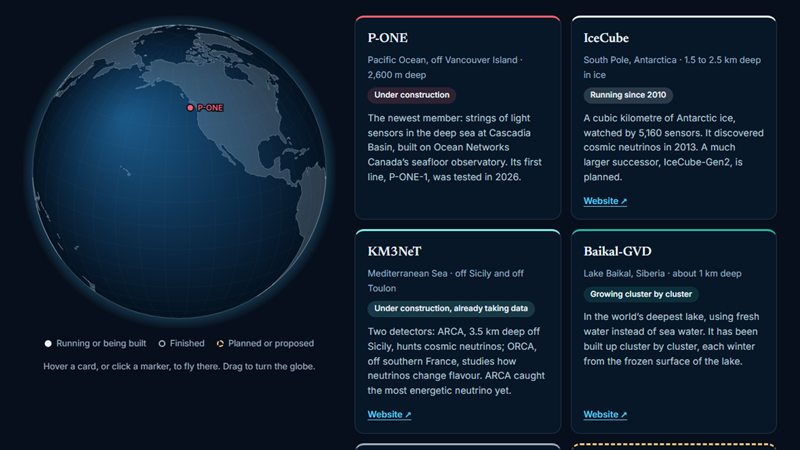
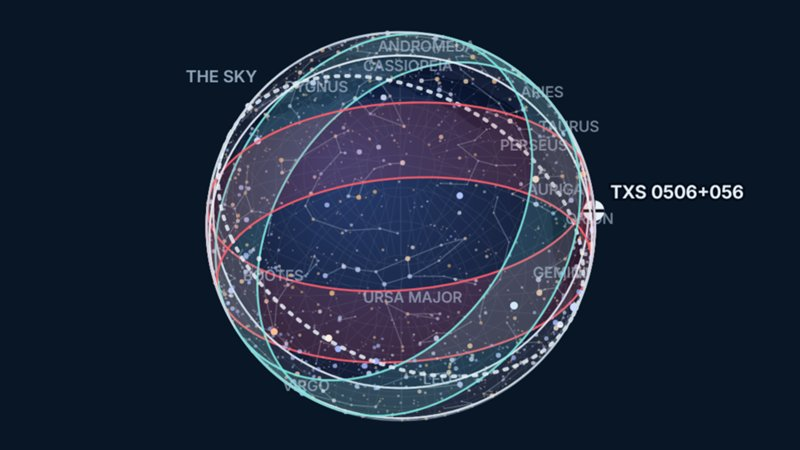
Telescope card thumbnail shows the Earth-and-sky view; whale in the welcome line

diff --git a/index.html b/index.html
@@ -17,7 +17,7 @@
   <link rel="preconnect" href="https://fonts.googleapis.com">
   <link rel="preconnect" href="https://fonts.gstatic.com" crossorigin>
   <link href="https://fonts.googleapis.com/css2?family=Inter:wght@400;500;600&family=Newsreader:opsz,wght@6..72,400;6..72,500;6..72,600&display=swap" rel="stylesheet">
-  <link rel="stylesheet" href="assets/style.css?v=20261105160712">
+  <link rel="stylesheet" href="assets/style.css?v=20261105161055">
   <script>
     try { var t = localStorage.getItem('theme'); if (t) document.documentElement.setAttribute('data-theme', t); } catch (e) {}
   </script>
@@ -78,7 +78,7 @@
             <p class="hero__pronouns">she/her</p>
           </div>
         </div>
-        <p class="hero__welcome"><span class="wave" aria-hidden="true">&#128075;</span> Welcome to my personal website!</p>
+        <p class="hero__welcome"><span class="wave" aria-hidden="true">&#128051;</span> Welcome to my personal website!</p>
         <p class="hero__lede">
           I'm a PhD candidate at Simon Fraser University, building and calibrating instruments for the
           <strong>Pacific Ocean Neutrino Experiment (P&#8209;ONE)</strong>, a cubic-kilometre neutrino telescope taking shape
@@ -151,7 +151,7 @@
             <h3 class="proj-group__title">Science communication</h3>
             <div class="cards">
               <article class="card" data-cat="outreach">
-                <a class="card__media" href="telescopes/" tabindex="-1" aria-hidden="true"><img src="assets/img/telescopes.jpg" alt="Screenshot: a globe showing P-ONE off Vancouver Island beside cards for the world's neutrino telescopes" width="800" height="450" loading="lazy" decoding="async"></a>
+                <a class="card__media" href="telescopes/" tabindex="-1" aria-hidden="true"><img src="assets/img/telescopes.jpg?v=20261105161055" alt="The sky explorer in its Earth-and-sky view: the sky as a see-through sphere of real stars and constellations, ringed by the bands that P-ONE, IceCube and KM3NeT see best" width="800" height="450" loading="lazy" decoding="async"></a>
                 <div class="card__top"><span class="badge">Interactive</span><span class="card__where">2026</span></div>
                 <h3>Neutrino telescopes of the world</h3>
                 <p>An interactive globe of the world's neutrino telescopes, and a sky explorer showing which part of the sky each one

diff --git a/assets/style.css b/assets/style.css
@@ -431,7 +431,7 @@ p { margin: 0 0 1em; }
 /* ---------- Hero welcome ---------- */
 .hero__welcome { margin: 0 0 10px; font-family: var(--serif); font-size: clamp(1.25rem, 2vw, 1.5rem); color: #fff; display: flex; align-items: center; gap: 10px; }
 .hero__welcome .wave { font-size: 1.1em; display: inline-block; transform-origin: 70% 70%; animation: wave 2.6s ease-in-out 1s 2; }
-@keyframes wave { 0%, 60%, 100% { transform: rotate(0); } 10%, 30% { transform: rotate(14deg); } 20% { transform: rotate(-8deg); } 40% { transform: rotate(-4deg); } 50% { transform: rotate(10deg); } }
+@keyframes wave { 0%, 100% { transform: translateY(0) rotate(0); } 25% { transform: translateY(-3px) rotate(-6deg); } 50% { transform: translateY(0) rotate(0); } 75% { transform: translateY(-2px) rotate(5deg); } }
 
 /* ---------- Card media ---------- */
 .card { overflow: hidden; }
